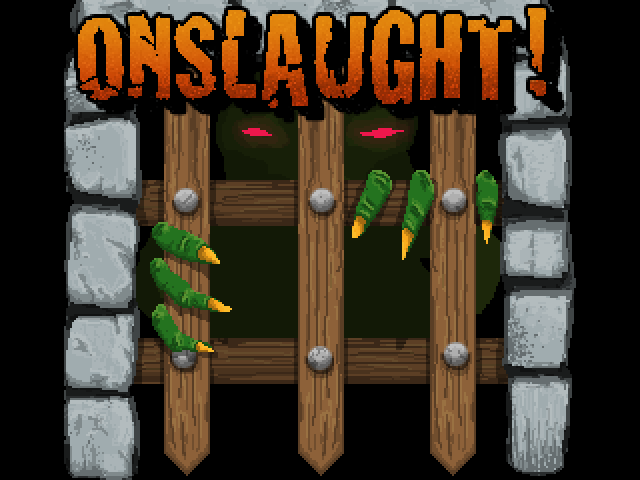
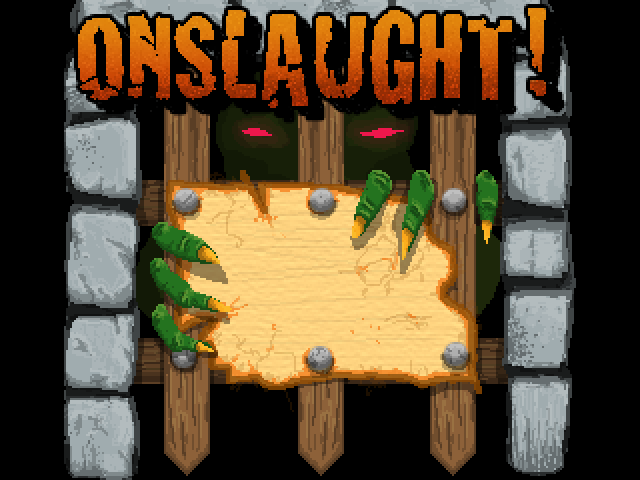
fixes #51

Changed region(s): [[0.25, 0.3438, 0.75, 0.8438]]

diff --git a/htdocs/js/engine.js b/htdocs/js/engine.js
@@ -6,10 +6,11 @@ var DIFFICULTY_INCREMENT = 0.5;
 var GATE_CUTOFF_Y = 64;
 var NUM_GATES = 3;
 var POINTER_Y_INC = 24;
-var POINTER_Y_START = 280;
+var POINTER_Y_START = 240;
 var SCREEN_WIDTH = 640;
 var SCREEN_HEIGHT = 480;
 var TEXT_HEIGHT = 20; // Ehh, kind of a hack, because stupid ctx.measureText only gives width (why??).
+var TITANIUM = (typeof(Titanium) != "undefined");
 
 /**
  * Creates a new Engine object
@@ -34,13 +35,8 @@ horde.Engine = function horde_Engine () {
 	this.gateState = "down"; // "up" or "down"
 	this.gatesX = 0;
 	this.gatesY = 0;
-	this.pointerY = POINTER_Y_START;
-
-	if (typeof(Titanium) == "undefined") {
-		this.maxPointerY = (this.pointerY + (POINTER_Y_INC * 2));
-	} else {
-		this.maxPointerY = (this.pointerY + (POINTER_Y_INC * 3));
-	}
+	this.titlePointerY = 0;
+	this.numTitleOptions = 4;
 	
 	this.targetReticle = {
 		angle: 0,
@@ -1121,19 +1117,19 @@ proto.handleInput = function horde_Engine_proto_handleInput () {
 			kb.clearKey(keys.ENTER);
 			kb.clearKey(keys.SPACE);
 
-			switch (this.pointerY) {
-				case POINTER_Y_START:
+			switch (this.titlePointerY) {
+				case 0:
 					horde.sound.play("normal_battle_music");
 					this.state = "running";
 					break;
-				case (POINTER_Y_START + POINTER_Y_INC):
+				case 1:
 					this.state = "how_to_play";
 					break;
-				case (POINTER_Y_START + POINTER_Y_INC*2):
+				case 2:
 					this.state = "credits";
 					break;
-				case (POINTER_Y_START + POINTER_Y_INC*3):
-					if (typeof(Titanium) != "undefined") {
+				case 3:
+					if (TITANIUM) {
 						Titanium.App.exit();
 					}
 					break;
@@ -1147,8 +1143,8 @@ proto.handleInput = function horde_Engine_proto_handleInput () {
 		) {
 			this.keyboard.keyStates[keys.W] = false;
 			this.keyboard.keyStates[keys.UP] = false;
-			this.pointerY -= POINTER_Y_INC;
-			if (this.pointerY < POINTER_Y_START) this.pointerY = this.maxPointerY;
+			this.titlePointerY--;
+			if (this.titlePointerY < 0) this.titlePointerY = this.numTitleOptions;
 			horde.sound.play("move_pointer");
 		}
 		if (
@@ -1157,8 +1153,8 @@ proto.handleInput = function horde_Engine_proto_handleInput () {
 		) {
 			this.keyboard.keyStates[keys.S] = false;
 			this.keyboard.keyStates[keys.DOWN] = false;
-			this.pointerY += POINTER_Y_INC;
-			if (this.pointerY > this.maxPointerY) this.pointerY = POINTER_Y_START;
+			this.titlePointerY++;
+			if (this.titlePointerY > this.numTitleOptions) this.titlePointerY = 0;
 			horde.sound.play("move_pointer");
 		}
 
@@ -1367,21 +1363,25 @@ proto.render = function horde_Engine_proto_render () {
 	
 };
 
+/**
+ * Draws the game over screen.
+ * @param {object} Canvas 2d context to draw on.
+ */
 proto.drawGameOver = function horde_Engine_proto_drawGameOver (ctx) {
 
-	if (!this.titleAlphaStep) {
-		this.titleAlphaStep = -0.025;
-		this.titleAlpha = 1;
+	if (this.goAlphaStep) {
+		this.goAlpha += this.goAlphaStep;
+		if (this.goAlpha <= 0) {
+			this.goAlpha = 0;
+			this.goAlphaStep = 0.025;
+		}
+		if (this.goAlpha >= 1) {
+			this.goAlpha = 1;
+			this.goAlphaStep = -0.025;
+		}
 	} else {
-		this.titleAlpha += this.titleAlphaStep;
-		if (this.titleAlpha <= 0) {
-			this.titleAlpha = 0;
-			this.titleAlphaStep = 0.025;
-		}
-		if (this.titleAlpha >= 1) {
-			this.titleAlpha = 1;
-			this.titleAlphaStep = -0.025;
-		}
+		this.goAlphaStep = -0.025;
+		this.goAlpha = 1;
 	}
 
 	if (!this.gameOverBg) {
@@ -1428,7 +1428,7 @@ proto.drawGameOver = function horde_Engine_proto_drawGameOver (ctx) {
 		ctx.fillText(p.gold, 300, 250);
 
 		ctx.textAlign = "center";
-		ctx.globalAlpha = this.titleAlpha;
+		ctx.globalAlpha = this.goAlpha;
 		ctx.fillText("Press space to continue", 320, 300);
 
 		ctx.restore();
@@ -1732,19 +1732,19 @@ proto.drawTitle = function horde_Engine_proto_drawTitle (ctx) {
 		0, 0
 	);
 	
-	if (!this.titleAlphaStep) {
-		this.titleAlphaStep = -0.025;
-		this.titleAlpha = 1;
-	} else {
+	if (this.titleAlphaStep) {
 		this.titleAlpha += this.titleAlphaStep;
-		if (this.titleAlpha <= 0) {
-			this.titleAlpha = 0;
+		if (this.titleAlpha <= 0.5) {
+			this.titleAlpha = 0.5;
 			this.titleAlphaStep = 0.025;
 		}
 		if (this.titleAlpha >= 1) {
 			this.titleAlpha = 1;
 			this.titleAlphaStep = -0.025;
 		}
+	} else {
+		this.titleAlphaStep = -0.025;
+		this.titleAlpha = 1;
 	}
 
 	var version = ("v" + VERSION + " \u00A9 Lost Decade Games");
@@ -1758,40 +1758,34 @@ proto.drawTitle = function horde_Engine_proto_drawTitle (ctx) {
 		font : "Bold 10px Monospace"
 	});
 
-	ctx.save();
-	ctx.globalAlpha = 0.75;
-	ctx.fillStyle = "rgb(0, 0, 0)";
-	ctx.fillRect(185, 245, 270, 105);
-	ctx.restore();
-	
-	ctx.save();
-	ctx.fillStyle = "rgb(255, 255, 255)";
-	ctx.font = "Bold 24px Monospace";
-	ctx.textAlign = "left";
-
 	var params = {
-		fillStyle : "rgb(255, 255, 255)",
+		fillStyle : "rgb(0, 0, 0)",
 		font : "Bold 10px Monospace",
 		textAlign : "left"
 	};
 
-	var textX = 240;
+	var textX = 270;
 	var textY = (POINTER_Y_START - TEXT_HEIGHT);
 
+	ctx.save();
 	this.drawText(ctx, "Play!", textX, textY, params);
-	this.drawText(ctx, "How to play", textX, (textY + POINTER_Y_INC), params);
-	this.drawText(ctx, "Credits", textX, (textY + POINTER_Y_INC * 2), params);
-	if (typeof(Titanium) != "undefined") {
-		this.drawText(ctx, "Exit", textX, (textY + POINTER_Y_INC * 3), params);
+	this.drawText(ctx, "Controls", textX, (textY + POINTER_Y_INC), params);
+	this.drawText(ctx, "How to play", textX, (textY + POINTER_Y_INC * 2), params);
+	this.drawText(ctx, "Credits", textX, (textY + POINTER_Y_INC * 3), params);
+	if (TITANIUM) {
+		this.drawText(ctx, "Buy full version", textX, (textY + POINTER_Y_INC * 4), params);
+	} else {
+		this.drawText(ctx, "Exit", textX, (textY + POINTER_Y_INC * 4), params);
 	}
 	ctx.restore();
 
 	// Sword pointer
 	ctx.save();
+	ctx.globalAlpha = this.titleAlpha;
 	ctx.drawImage(
 		this.images.getImage("objects"),
 		320, 192, 36, 26,
-		(textX - 48), (this.pointerY - 20),
+		(textX - 48), (POINTER_Y_START + (this.titlePointerY * POINTER_Y_INC) - 20),
 		36, 26
 	);
 	ctx.restore();
